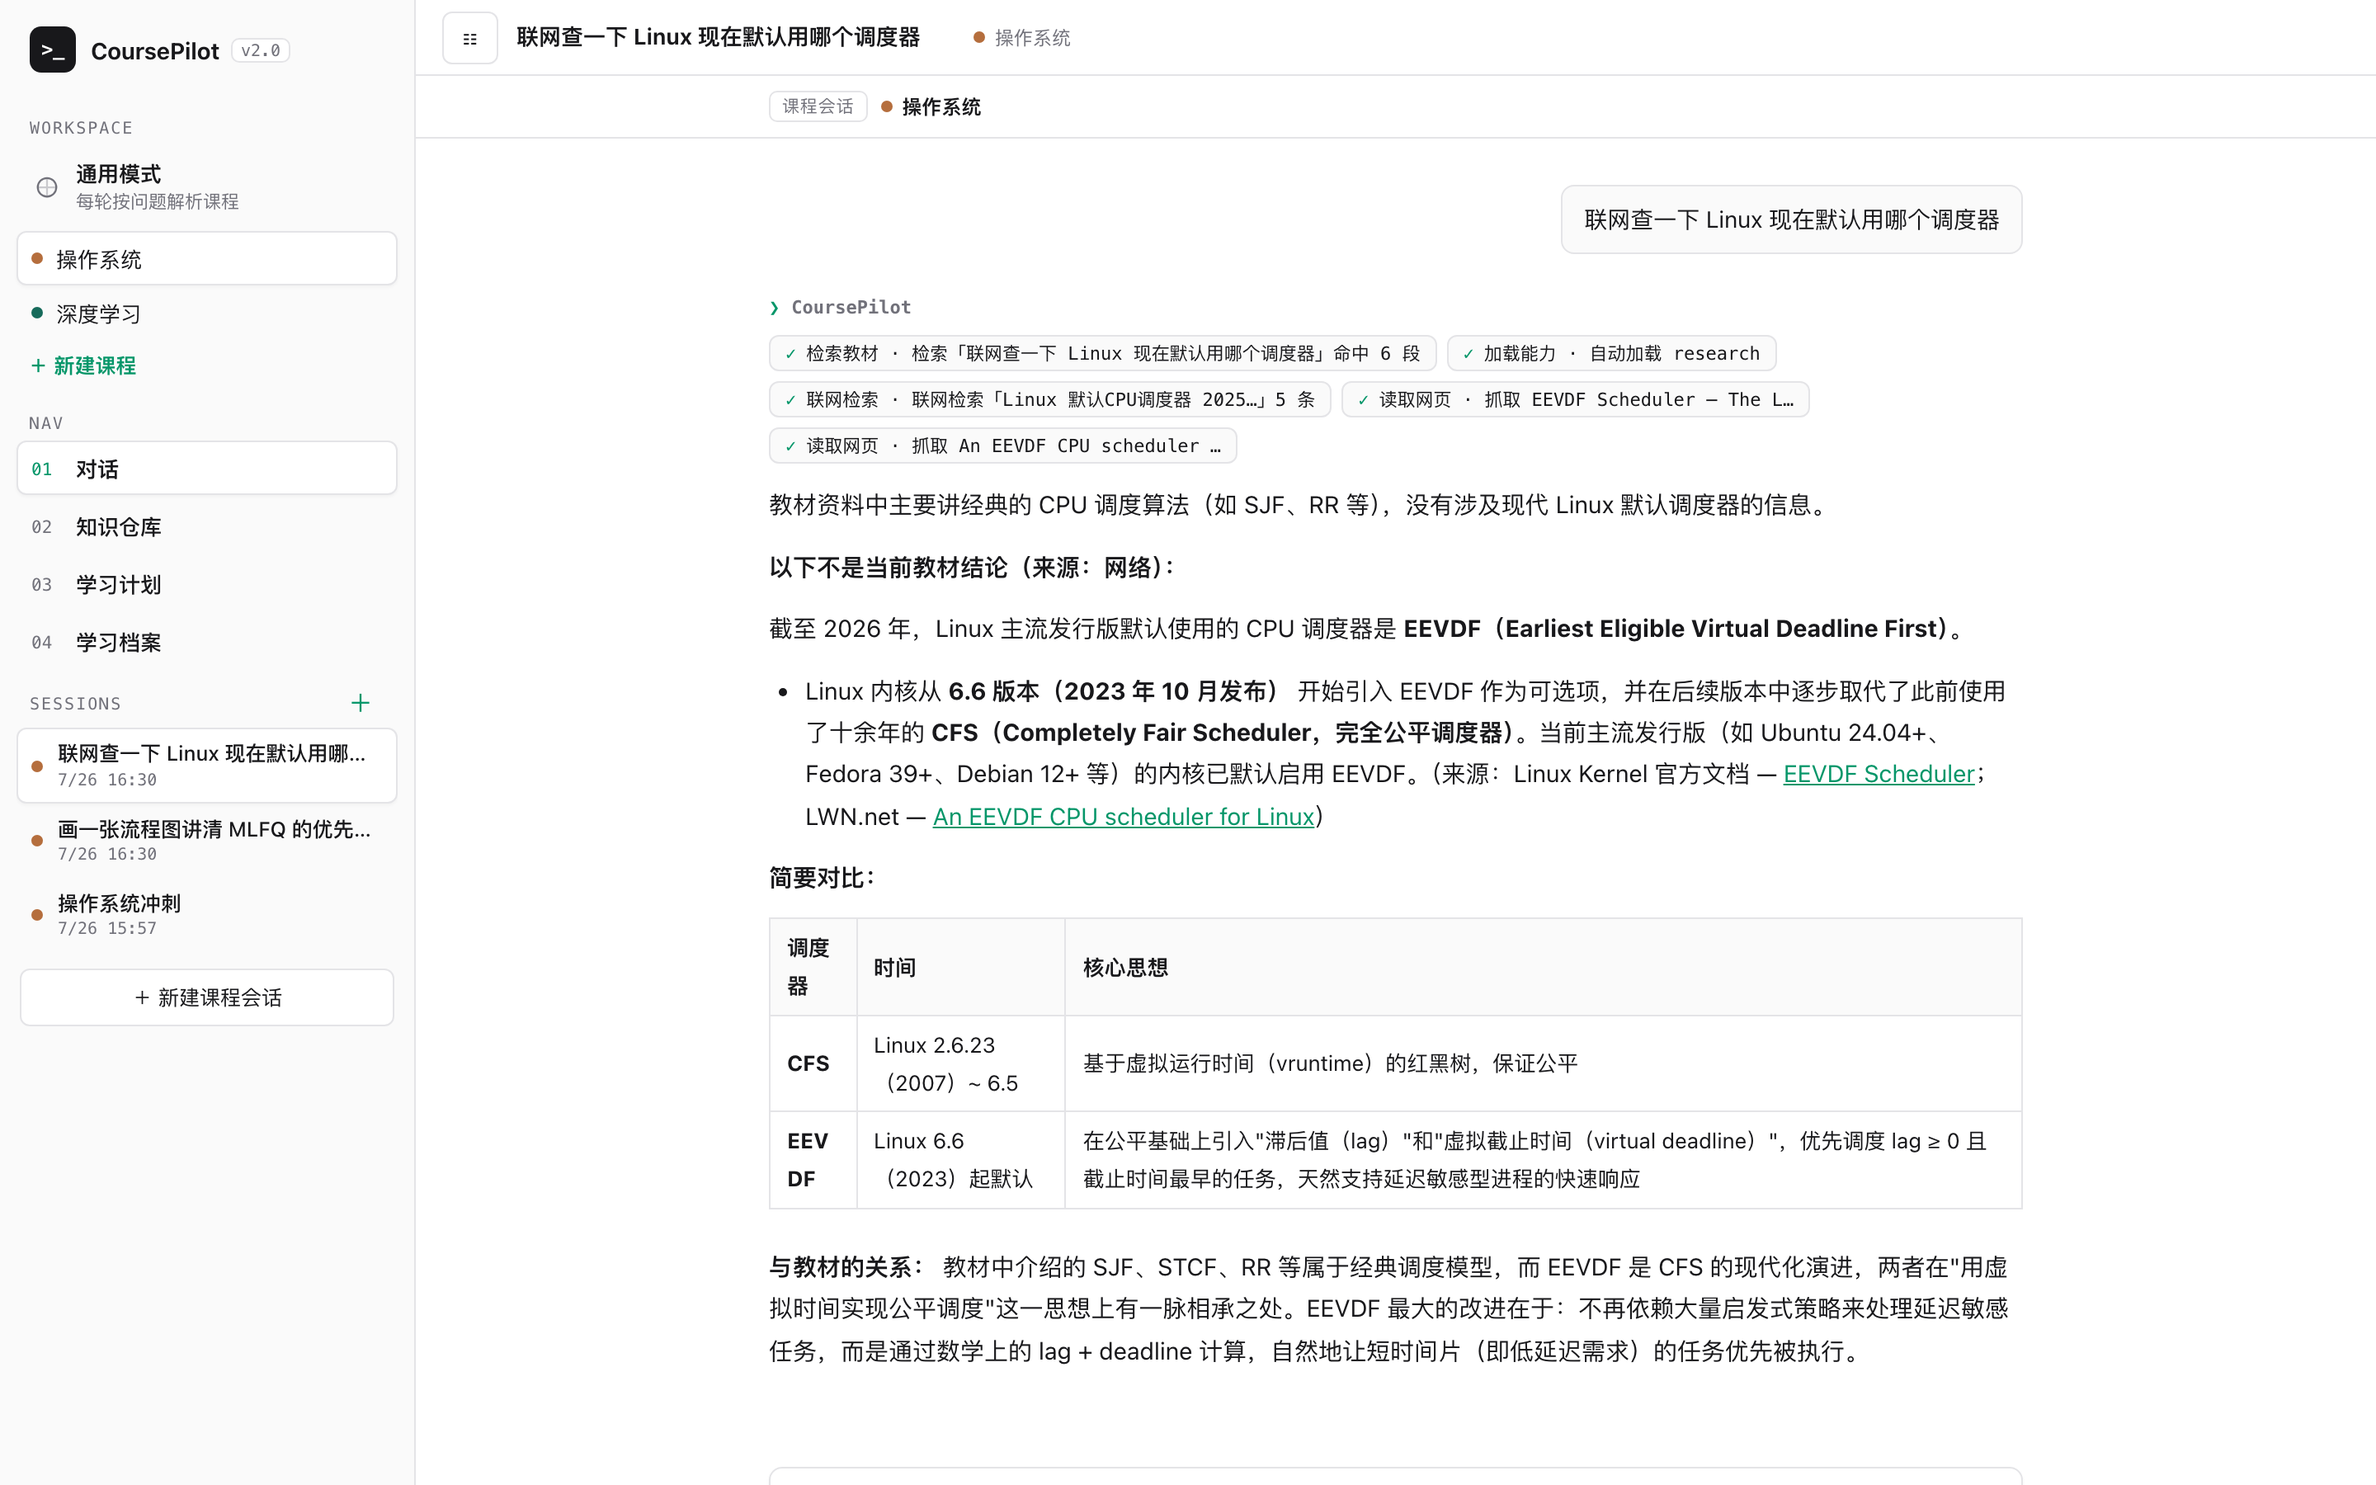
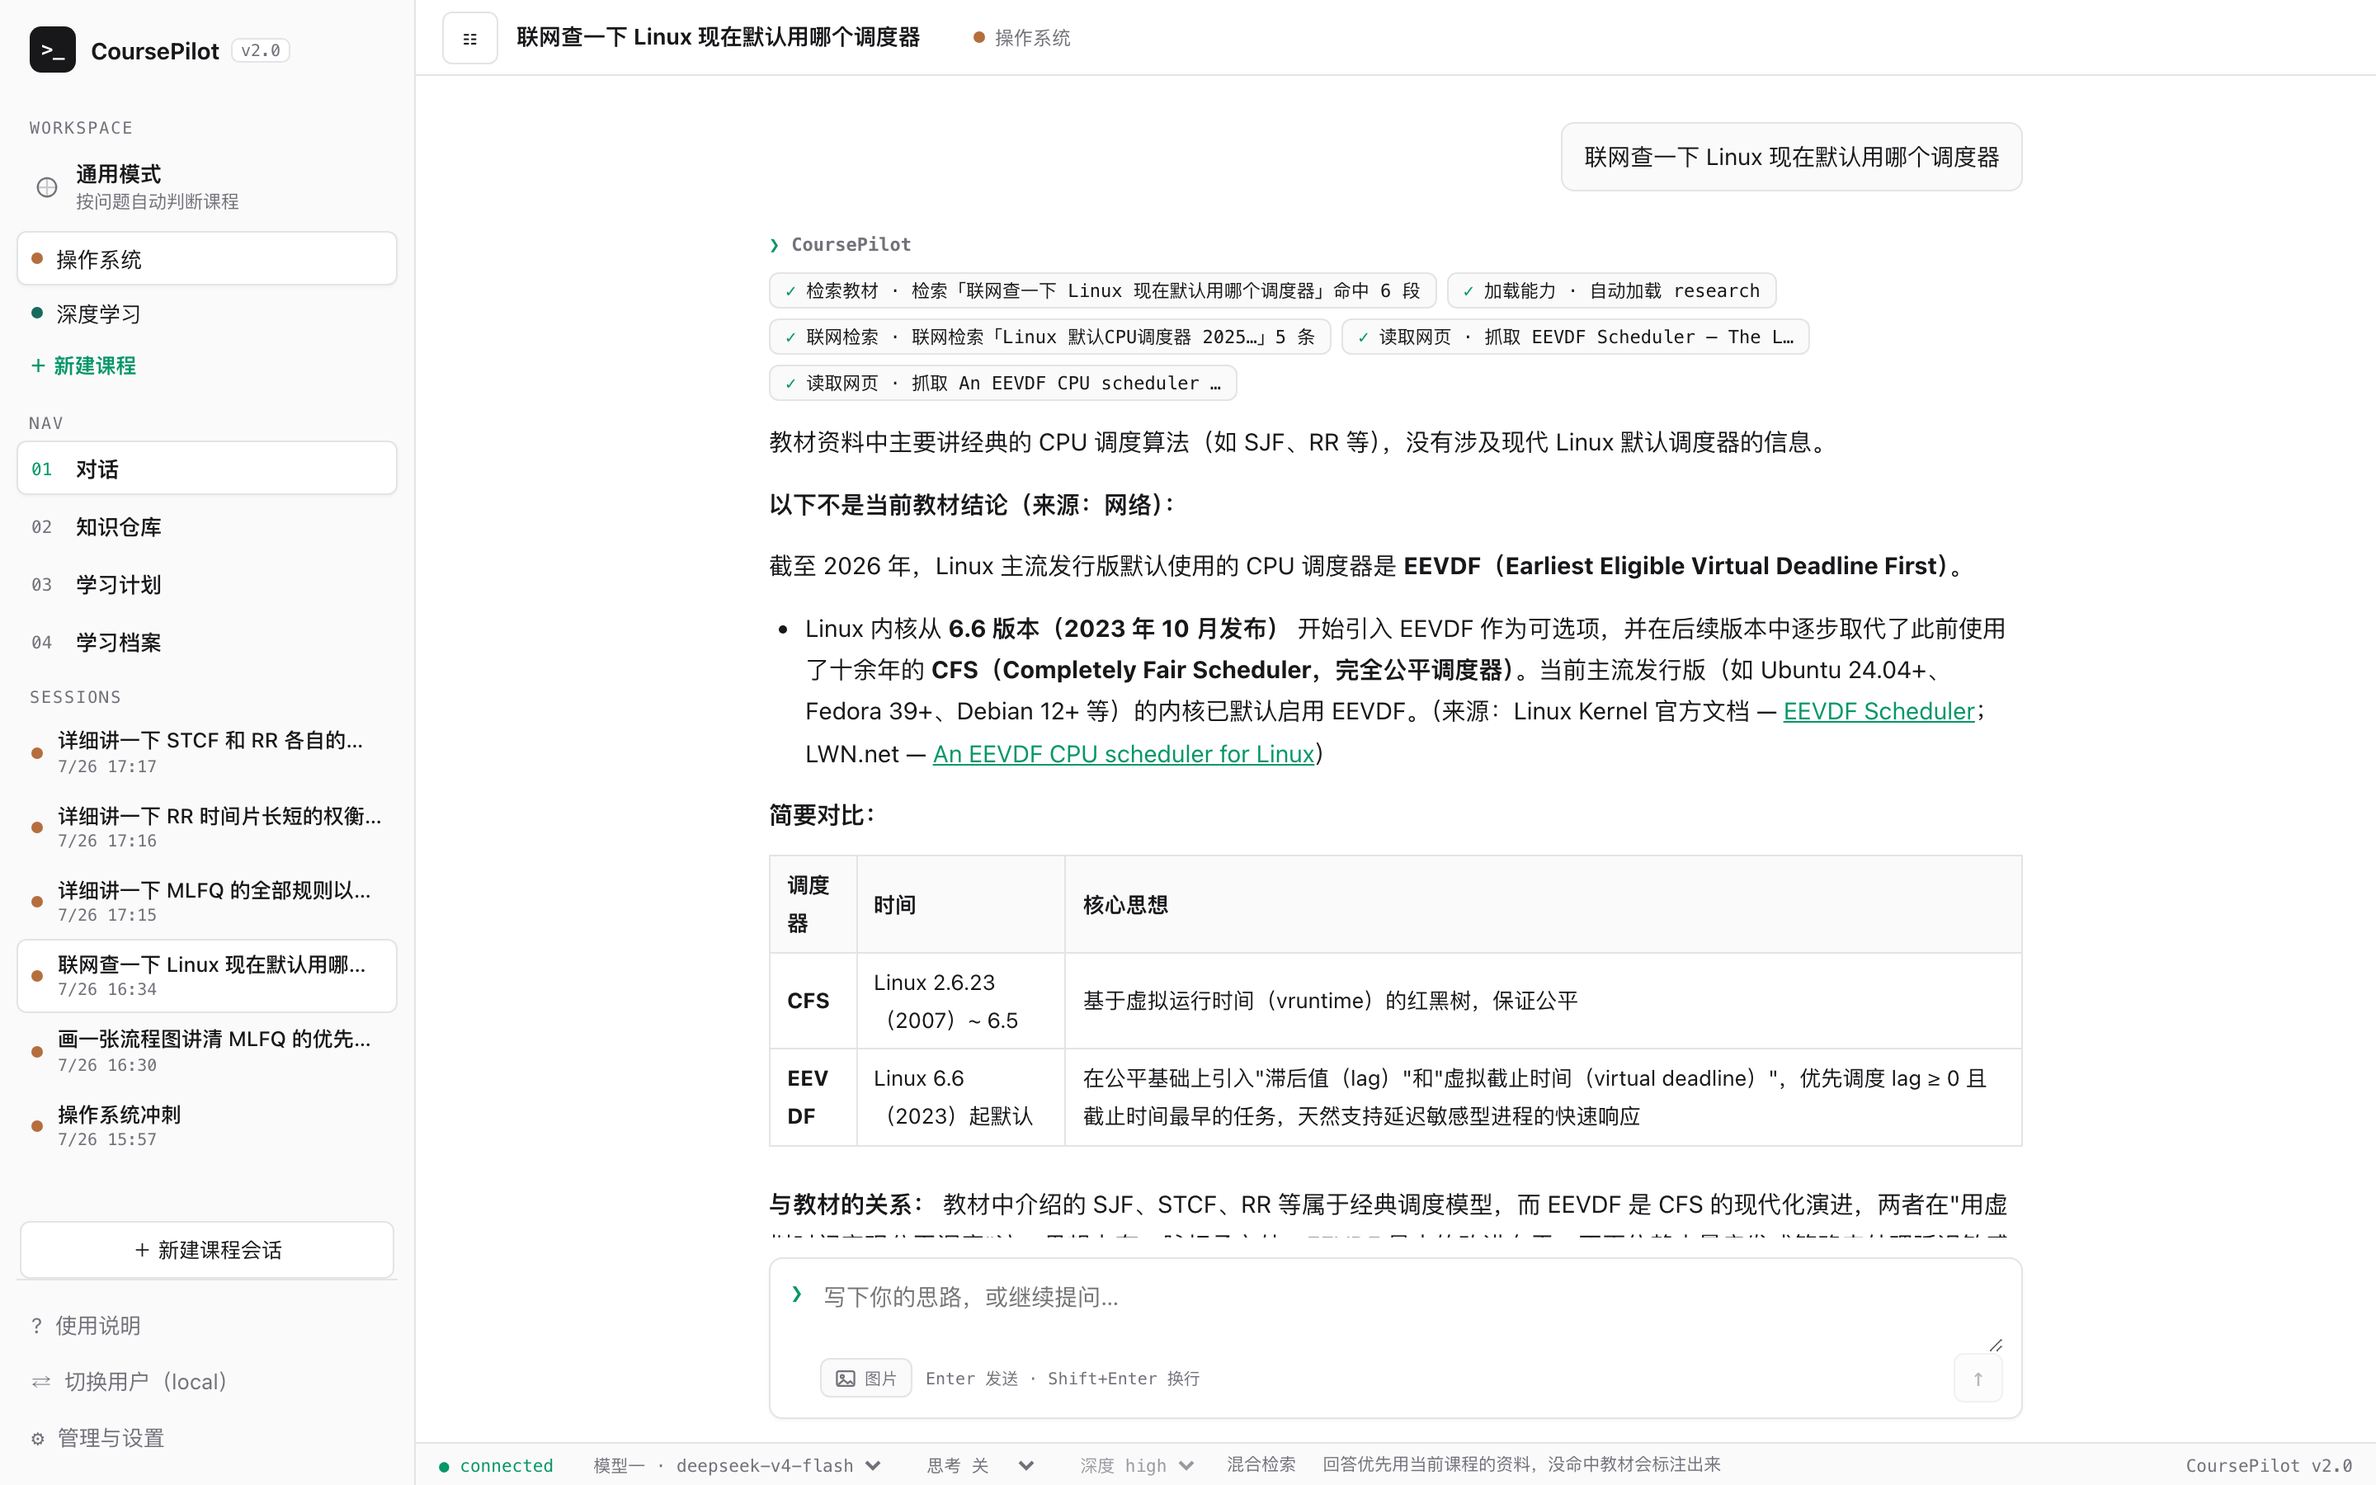
文档对齐当前实现：修过期数字、补新能力、11 张截图全部重拍
上传前的整理。三类问题：

**过期数字。** README 写「187 个测试」（实际 220），项目介绍写「16 个工具」（实际 14）、
「联网每轮各 3 次」（实际 5 且同查询不占额度）。测试数这种每次改动都变的，直接不写死。

**README 缺本轮四项能力**：教材与网页来源统一编号、学习计划甘特图、模型与思考档位切换、
数据可删（含删除前列出连带影响）。后两项配了新截图。

**11 张截图全部过期**——顶栏、状态栏、侧栏、计划页这轮都改了。重拍时踩到四个问题，
都在脚本里修掉了，免得下次再撞：

1. 截图脚本缺自动登录。login 那张会清掉 localStorage，之后每个画面都停在登录页，
   而 context 那张的 settle 对着 null 调 setter，最终以一个看不出原因的
   Illegal invocation 收场。现在除登录页本身，每张都先进去。
2. mermaid 是动态 import（600KB+），2.5 秒等不到首次渲染，图示那张一直被跳过。
3. `/流程图|STCF/` 会先命中一个没有图示的会话，改成精确匹配那句「画一张流程图」。
4. 加了 --only（context 那张要真发一轮，每次重跑都花一次真实调用）和按元素裁剪
   （状态栏这种窄条整页截出来看不清）。--only 顺带暴露一个问题：索引文件原来按本次
   实际产出重写，跑一张就把索引清成一行——改成按 SHOTS 定义写全。

截图数据用的是端到端旅程那份（公开教材、不含个人对话），它是改造前的旧目录布局，
先用 migrate_to_users.py 迁到新布局才能被读到。这一点写进了脚本的用法说明。

diff --git a/scripts/screenshots.py b/scripts/screenshots.py
@@ -1,10 +1,12 @@
 """生成文档用截图。UI 改了重跑一次即可，截图不会过期。
 
-需要一个已有数据的实例在跑（推荐端到端旅程刚跑完的那个）：
-    STORAGE_DATA_DIR=testdata/e2e-fresh .venv/bin/python -m uvicorn app.main:app \
-        --app-dir backend --host 127.0.0.1 --port 8001
-    cd frontend && VITE_PROXY_TARGET=http://127.0.0.1:8001 pnpm dev --port 5174
+需要一个已有数据的实例在跑（推荐端到端旅程刚跑完的那个）。用端口偏移单独起一套，
+不影响正在开发的那套：
+    CP_PORT_OFFSET=1 STORAGE_DATA_DIR=testdata/e2e-fresh ./scripts/dev.sh
     .venv/bin/python scripts/screenshots.py --url http://127.0.0.1:5174
+
+数据目录得是新布局（<data>/users/<user_id>/）。旧布局先跑一次
+scripts/migrate_to_users.py --data-dir <那个目录>。
 """
 from __future__ import annotations
 
@@ -44,9 +46,11 @@ SHOTS: list[dict] = [
         "name": "chat-diagram.png",
         "caption": "图示：mermaid 渲染成 SVG，下方可下载",
         "clicks": ["操作系统", "对话"],
-        "script": "const s=[...document.querySelectorAll('.session')].find(e=>/流程图|STCF/.test(e.textContent)); s&&s.click();",
+        # 按「画一张流程图」精确找：早先的 /流程图|STCF/ 会先命中一个没有图示的会话
+        "script": "const s=[...document.querySelectorAll('.session')].find(e=>/画一张流程图|思维导图/.test(e.textContent)); s&&s.click();",
         "settle": "const f=document.querySelector('.mermaid-figure'); const m=document.querySelector('.messages'); if(f&&m) m.scrollTop=f.offsetTop-80;",
-        "wait": 2500,
+        # mermaid 是动态 import 的（600KB+），首次渲染比想象的慢
+        "wait": 8000,
         "expect": ".mermaid-figure svg",
     },
     {
@@ -77,6 +81,21 @@ SHOTS: list[dict] = [
         "expect": ".help-step",
     },
     {
+        "name": "model-picker.png",
+        "caption": "底部状态栏：随时换模型与思考档位；配几个模型由 .env 决定",
+        "clicks": ["操作系统", "对话"],
+        "expect": ".statusbar-picker select",
+        "clip": ".statusbar",
+    },
+    {
+        "name": "delete-confirm.png",
+        "caption": "删除前列出连带影响：删一门课会带走它的教材、概念、掌握度、计划与会话",
+        "clicks": ["管理与设置"],
+        "settle": "const b=[...document.querySelectorAll('.settings-course button')].find(e=>e.innerText.trim()==='删除'); b&&b.click();",
+        "wait": 700,
+        "expect": ".danger-confirm",
+    },
+    {
         "name": "context.png",
         "caption": "上下文构成：输入框旁的占比条，展开后逐段列出字符数",
         "clicks": ["操作系统", "对话"],
@@ -93,10 +112,22 @@ SHOTS: list[dict] = [
             "const m=document.querySelector('.messages'); if(m) m.style.maxHeight='150px';"
             "const b=document.querySelector('.context-chip > button'); b&&b.click();"
         ),
-        "wait": 14000,
+        # 这张必须真发一轮才有数据，而一轮现在要 30 秒以上
+        "wait": 50000,
         "expect": ".context-popover",
     },
 ]
+
+
+LOGIN_SNIPPET = """
+user => {
+  if (!document.querySelector('.login-card')) return
+  const input = document.querySelector('.login-card input')
+  Object.getOwnPropertyDescriptor(HTMLInputElement.prototype, 'value').set.call(input, user)
+  input.dispatchEvent(new Event('input', { bubbles: true }))
+  document.querySelector('.login-submit').click()
+}
+"""
 
 
 def main() -> int:
@@ -109,8 +140,10 @@ def main() -> int:
 
     parser = argparse.ArgumentParser()
     parser.add_argument("--url", default="http://127.0.0.1:5174")
+    parser.add_argument("--user", default="local", help="用哪个用户名登录，要和实例里的数据对应")
     parser.add_argument("--width", type=int, default=1440)
     parser.add_argument("--height", type=int, default=900)
+    parser.add_argument("--only", default="", help="只跑这些图，逗号分隔（不带 .png 也行）")
     args = parser.parse_args()
     OUT.mkdir(parents=True, exist_ok=True)
 
@@ -119,9 +152,17 @@ def main() -> int:
     with sync_playwright() as playwright:
         browser = playwright.chromium.launch()
         page = browser.new_page(viewport={"width": args.width, "height": args.height}, device_scale_factor=2)
+        wanted = {name.removesuffix('.png') for name in args.only.split(',') if name.strip()}
         for shot in SHOTS:
+            if wanted and shot["name"].removesuffix('.png') not in wanted:
+                continue
             page.goto(args.url, wait_until="networkidle")
             page.wait_for_timeout(900)
+            # 登录页会拦住后面每一个画面（login 那张要的就是登录页本身）。不在这里进去，
+            # 后续 shot 全对着空页面跑，脚本会以一个看不出原因的 Illegal invocation 收场。
+            if shot["name"] != "login.png":
+                page.evaluate(LOGIN_SNIPPET, args.user)
+                page.wait_for_timeout(1600)
             for label in shot.get("clicks", []):
                 page.evaluate(
                     "label => { const b=[...document.querySelectorAll('button')].find(e => e.textContent.includes(label)); b && b.click() }",
@@ -142,15 +183,21 @@ def main() -> int:
                 failures.append(f"{shot['name']}：等待的元素 {expect} 没出现，画面可能不对")
                 continue
             target = OUT / shot["name"]
-            page.screenshot(path=str(target))
+            if shot.get("clip"):
+                # 窄条（状态栏之类）整页截出来看不清，按元素裁一张
+                element = page.locator(shot["clip"]).first
+                element.screenshot(path=str(target))
+            else:
+                page.screenshot(path=str(target))
             written.append((shot["name"], shot["caption"]))
             print(f"  {shot['name']}  {shot['caption']}")
         browser.close()
 
+    # 索引按 SHOTS 定义写全，不按本次实际产出——否则 --only 跑一张就把索引清成一行。
     index = OUT / "README.md"
     index.write_text(
         "# 文档截图\n\n由 `scripts/screenshots.py` 生成，UI 改动后重跑一次即可。\n\n"
-        + "\n".join(f"- `{name}` — {caption}" for name, caption in written) + "\n",
+        + "\n".join(f"- `{shot['name']}` — {shot['caption']}" for shot in SHOTS) + "\n",
         encoding="utf-8",
     )
     print(f"\n共 {len(written)} 张，输出在 {OUT.relative_to(ROOT)}")

diff --git a/README.md b/README.md
@@ -85,6 +85,9 @@ TEXT_EXTRA_BODY={"thinking":{"type":"disabled"}}
 
 ![工具链](Docs/images/chat-tools.png)
 
+**教材与网页来源统一编号。** 回答里的 `[1] [2]` 不分来源，底部 SOURCES 一起列出：
+教材点开看原文片段，网页点开跳外链。教材外的内容始终带「不是当前教材结论」的标注。
+
 **五个专项能力。** 说出对应的话会自动加载，不用手动选：
 
 | 能力 | 什么时候用 |
@@ -100,6 +103,7 @@ TEXT_EXTRA_BODY={"thinking":{"type":"disabled"}}
 ![图示](Docs/images/chat-diagram.png)
 
 **学习计划。** 在对话里说要排计划，助手写进来。每次改动升一版，过去的条目不动。
+顶部一张甘特图看整个周期的节奏，下面按天分段、今天高亮。
 
 ![学习计划](Docs/images/plan.png)
 
@@ -122,6 +126,17 @@ TEXT_EXTRA_BODY={"thinking":{"type":"disabled"}}
 
 ![使用说明](Docs/images/help.png)
 
+**随时换模型和思考档位。** 底部状态栏三个下拉：模型、思考（关 / 自动 / 开）、
+思考深度。想配几个模型就在 `.env` 里往下加编号，同一家的第二个模型只要写一行 model id。
+
+![模型切换](Docs/images/model-picker.png)
+
+**数据可以删干净。** 会话在侧栏悬停就能改名或删除；教材在知识仓库里删；课程在管理页删。
+删除前会列出连带影响——删一门课会带走它的教材、概念、掌握度、计划、笔记与会话，
+所以这句话必须写在你点确认之前。
+
+![删除确认](Docs/images/delete-confirm.png)
+
 ## 边界
 
 - **没有 shell 执行。** 学习助手没有理由执行命令。
@@ -135,7 +150,7 @@ TEXT_EXTRA_BODY={"thinking":{"type":"disabled"}}
 ./scripts/check.sh
 ```
 
-跑后端全部测试（187 个）、Python 编译检查、前端类型检查与生产构建。不需要 API key，
+跑后端全部测试、Python 编译检查、前端类型检查与生产构建。不需要 API key，
 不发网络请求。
 
 后端 FastAPI + SQLite（标准库，显式 migration），前端 React 19 + TypeScript + Vite。

diff --git a/Docs/images/README.md b/Docs/images/README.md
@@ -2,6 +2,7 @@
 
 由 `scripts/screenshots.py` 生成，UI 改动后重跑一次即可。
 
+- `login.png` — 登录：输入用户名或从随机建议里挑一个；每个用户名对应一份独立的工作区
 - `chat-citation.png` — 对话取证：回答带教材文件名与页码，公式正常渲染，底部 SOURCES 可点开原文
 - `chat-tools.png` — 工具链可见：自动加载 research、检索教材、联网检索、抓取网页，失败的那一步也显示出来
 - `chat-diagram.png` — 图示：mermaid 渲染成 SVG，下方可下载
@@ -9,4 +10,6 @@
 - `plan.png` — 学习计划：版本化的每日条目，挂着概念名，历史条目不会被改写
 - `archive.png` — 学习档案：按概念的掌握度与证据事件；证据不足时显示「数据不足」而不是编一个百分比
 - `help.png` — 使用说明：上手清单按真实状态打勾，能力卡与实例状态都读自接口
+- `model-picker.png` — 底部状态栏：随时换模型与思考档位；配几个模型由 .env 决定
+- `delete-confirm.png` — 删除前列出连带影响：删一门课会带走它的教材、概念、掌握度、计划与会话
 - `context.png` — 上下文构成：输入框旁的占比条，展开后逐段列出字符数

diff --git a/Docs/项目介绍.md b/Docs/项目介绍.md
@@ -179,13 +179,13 @@ sequenceDiagram
 
 ### 工具与权限：按副作用分层，而不是一份白名单
 
-16 个工具按能力分组，profile 声明它允许哪些能力，**不允许的工具连 schema 都不下发给模型**：
+14 个工具按能力分组，profile 声明它允许哪些能力，**不允许的工具连 schema 都不下发给模型**：
 
 ```
 只读课程数据    检索教材、资料清单、概念目录、计划、档案、笔记
 会改学习状态    写证据事件、改计划、更新记忆、存练习产物
 会新建笔记      note_write
-会访问网络      web_search、web_fetch（每轮各 3 次上限）
+会访问网络      web_search、web_fetch（每轮各 5 次；同一查询重复调用不占额度）
 无副作用        计算、加载能力、读产物
 ```
 
